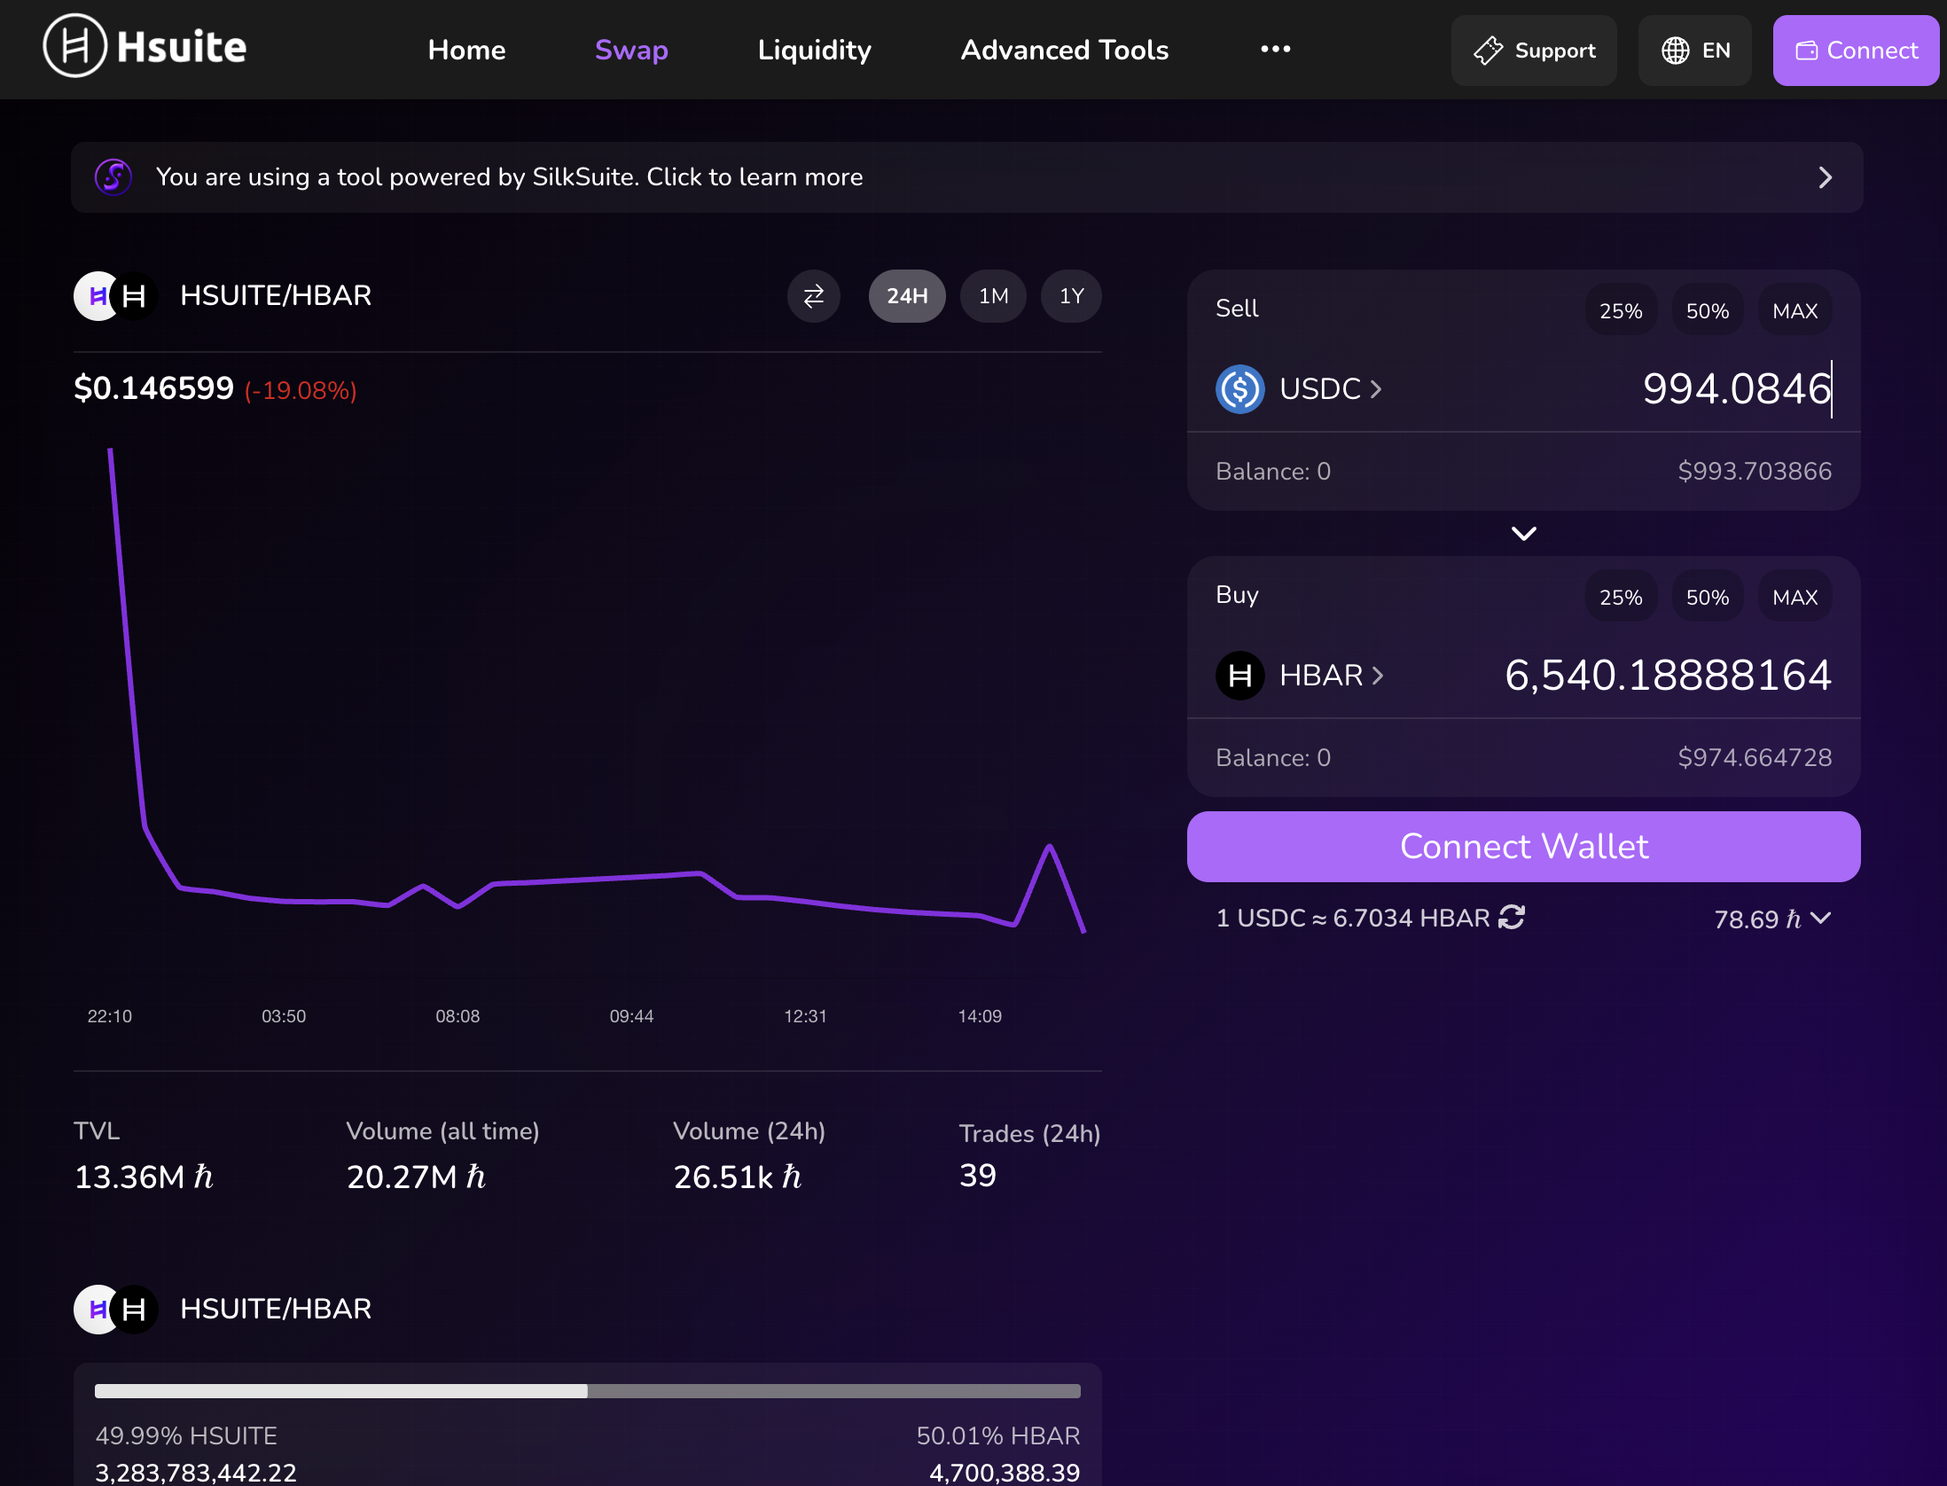
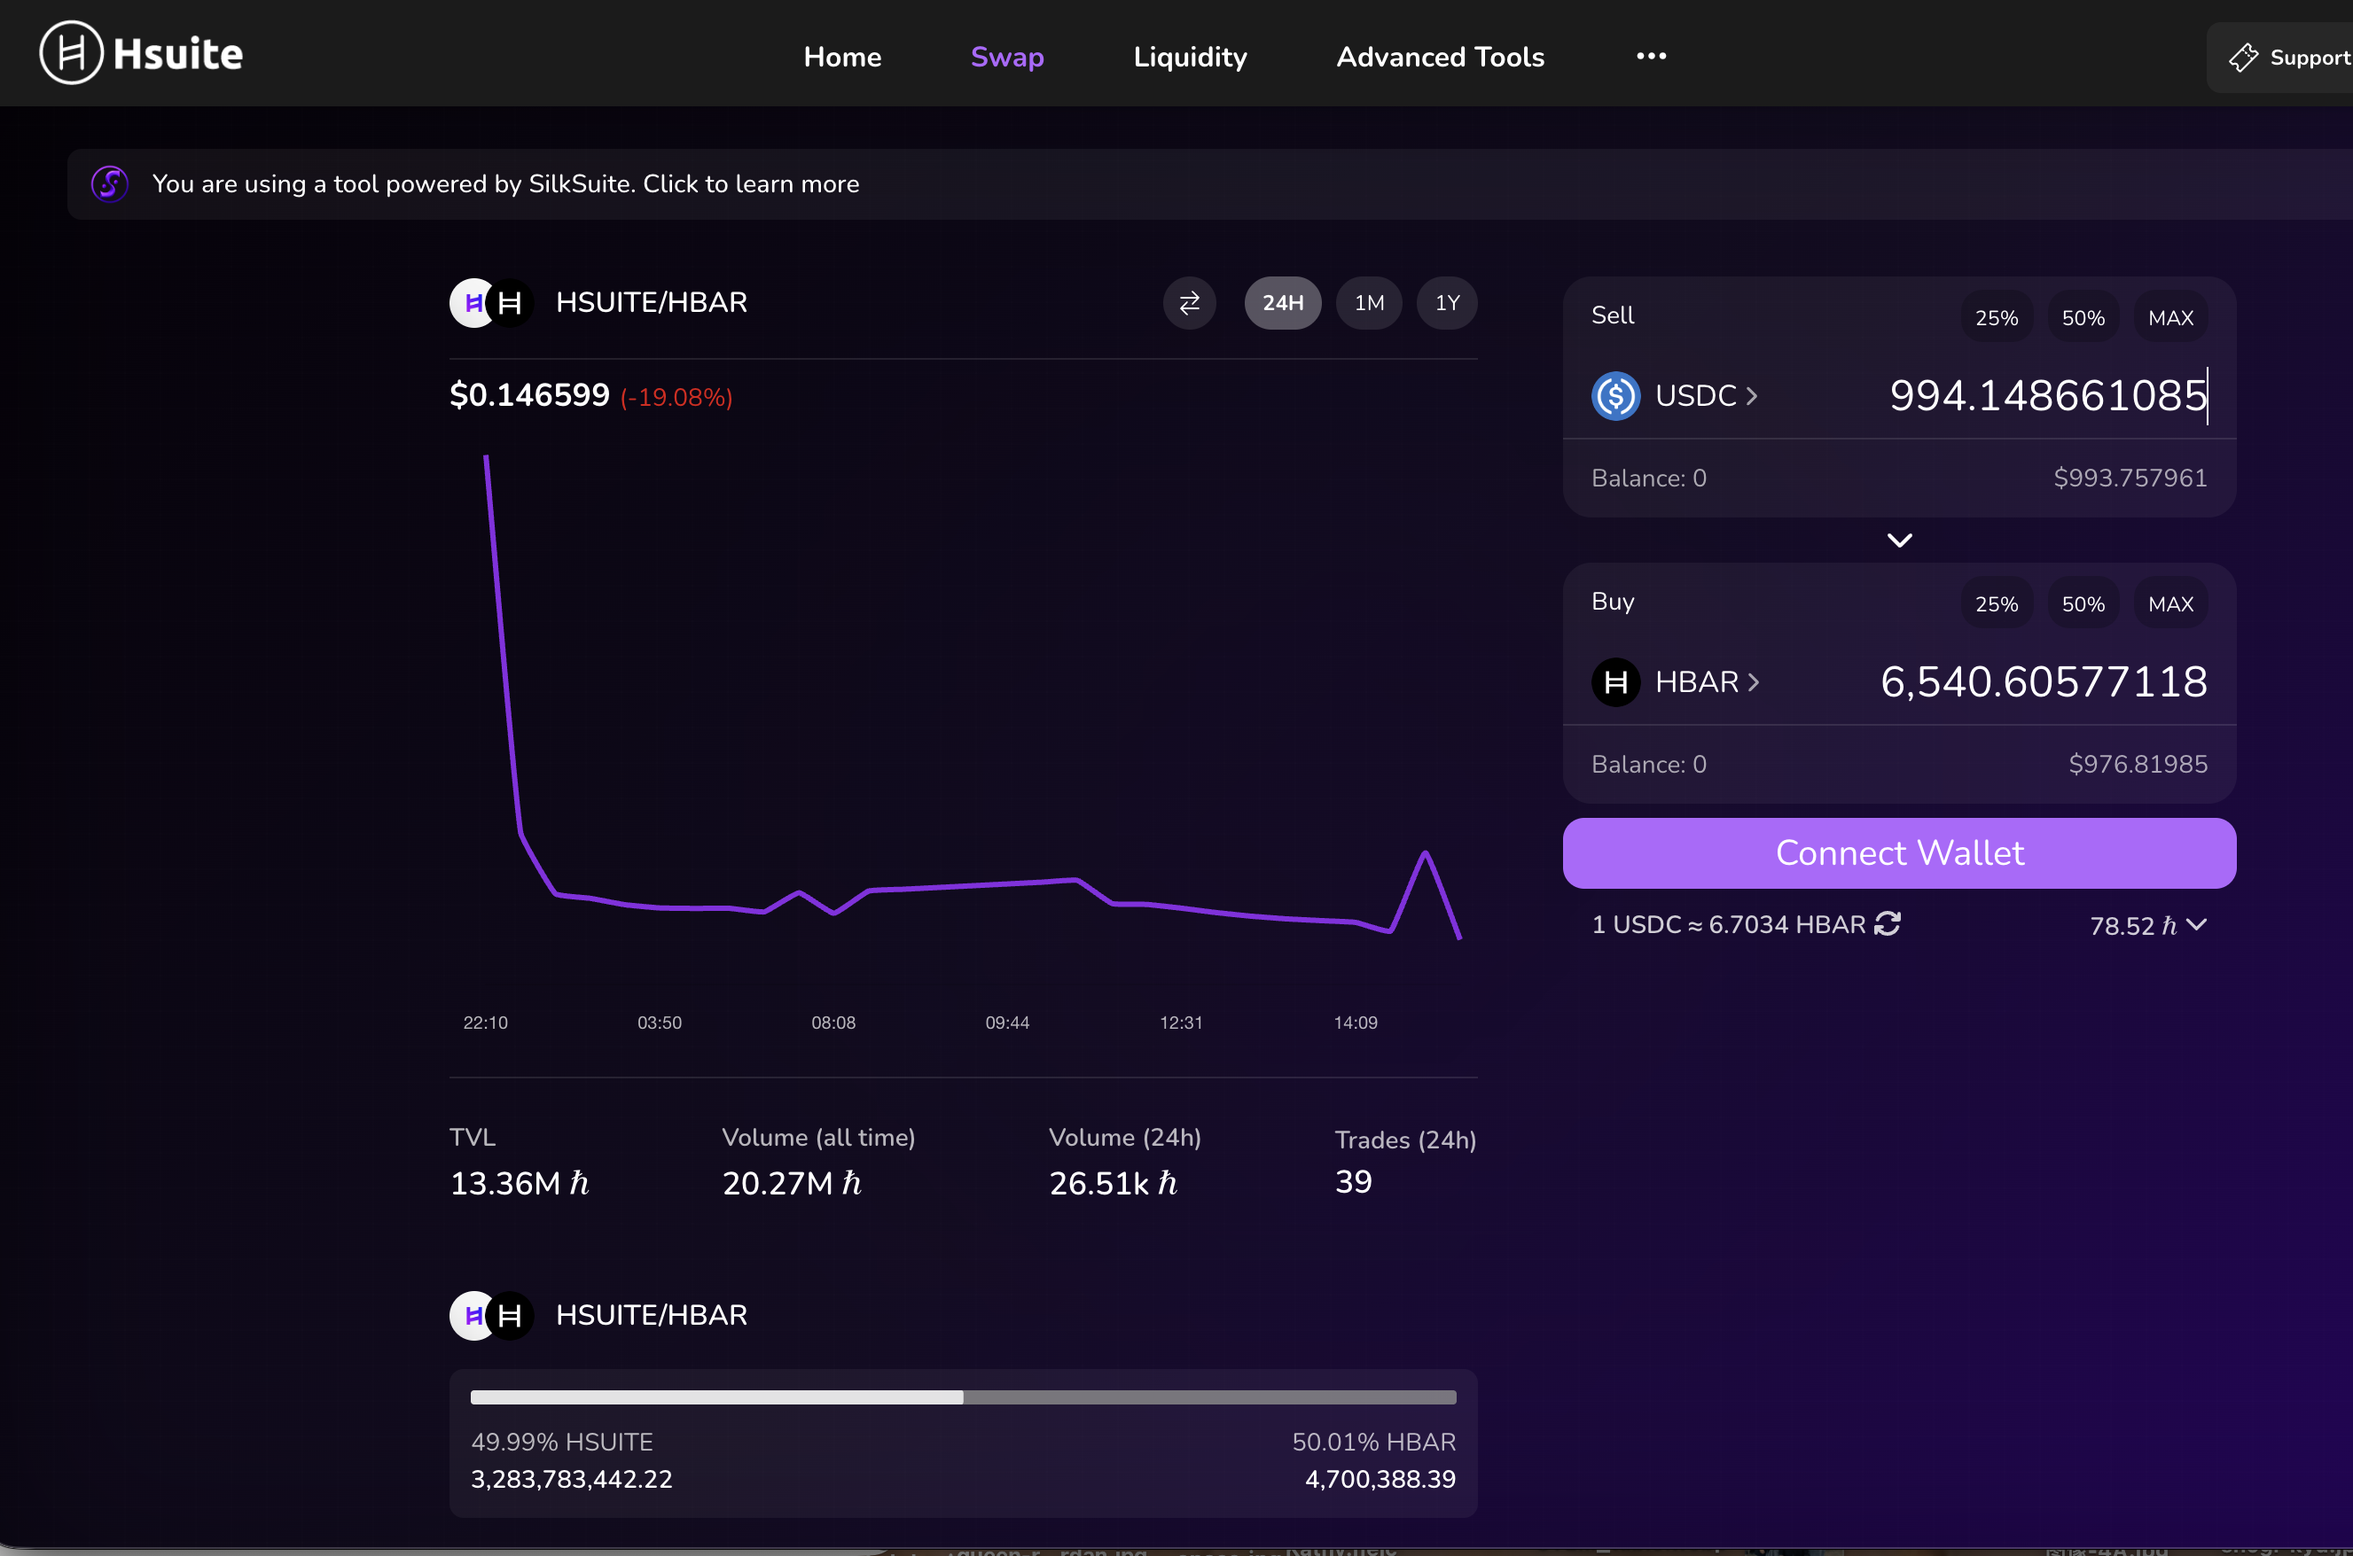
Coinbase liquidity transfer, 2025-11-24

diff --git a/blog/2025/11/24/README.md b/blog/2025/11/24/README.md
@@ -9,8 +9,6 @@ I know of three ways to move liquidity from @avax to @hedera:
 
 ### SimpleSwap
 
-I know of three ways to move liquidity from @avax to @hedera:
-
 1. @avax $USDC -> @hedera $HBAR using @SimpleSwap_io, which has its own bridge, with its own associated (invisible) fees that show up as less $HBAR received.
 
 ![Bridge liquidity using SimpleSwap](imgs/01-simple.png)
@@ -37,5 +35,30 @@ Then, swap to $HBAR using either:
 
 ![HSuite](imgs/02d-hsuite.png)
 
-(102 $HBAR less!)
+(102 $HBAR less! or a $19 hit!)
+
+### Coinbase
+
+3. via @coinbase: @avax $USDC -> @coinbase swap to $HBAR
+
+![Send $USDC to Coinbase from Avalanche](imgs/03a-send-from-avax.png)
+![Swap to HBAR](imgs/03b-coinbase.png)
+
+1,000 $USDC -> 6,827 $HBAR
+
+### Recap
+
+But it's been hours since the last set of swaps, so the revised swaps are now:
+
+* Saucer: -> 6,823.12
+
+![Saucer swap](imgs/03c-saucer-update.png)
+
+* Simple: -> 6,806.38
+
+![Simple swap-and-bridge](imgs/03d-simple-update.png)
+
+* and coinbase, as you see: -> 6,827
+
+Coinbase is the winner.
 
